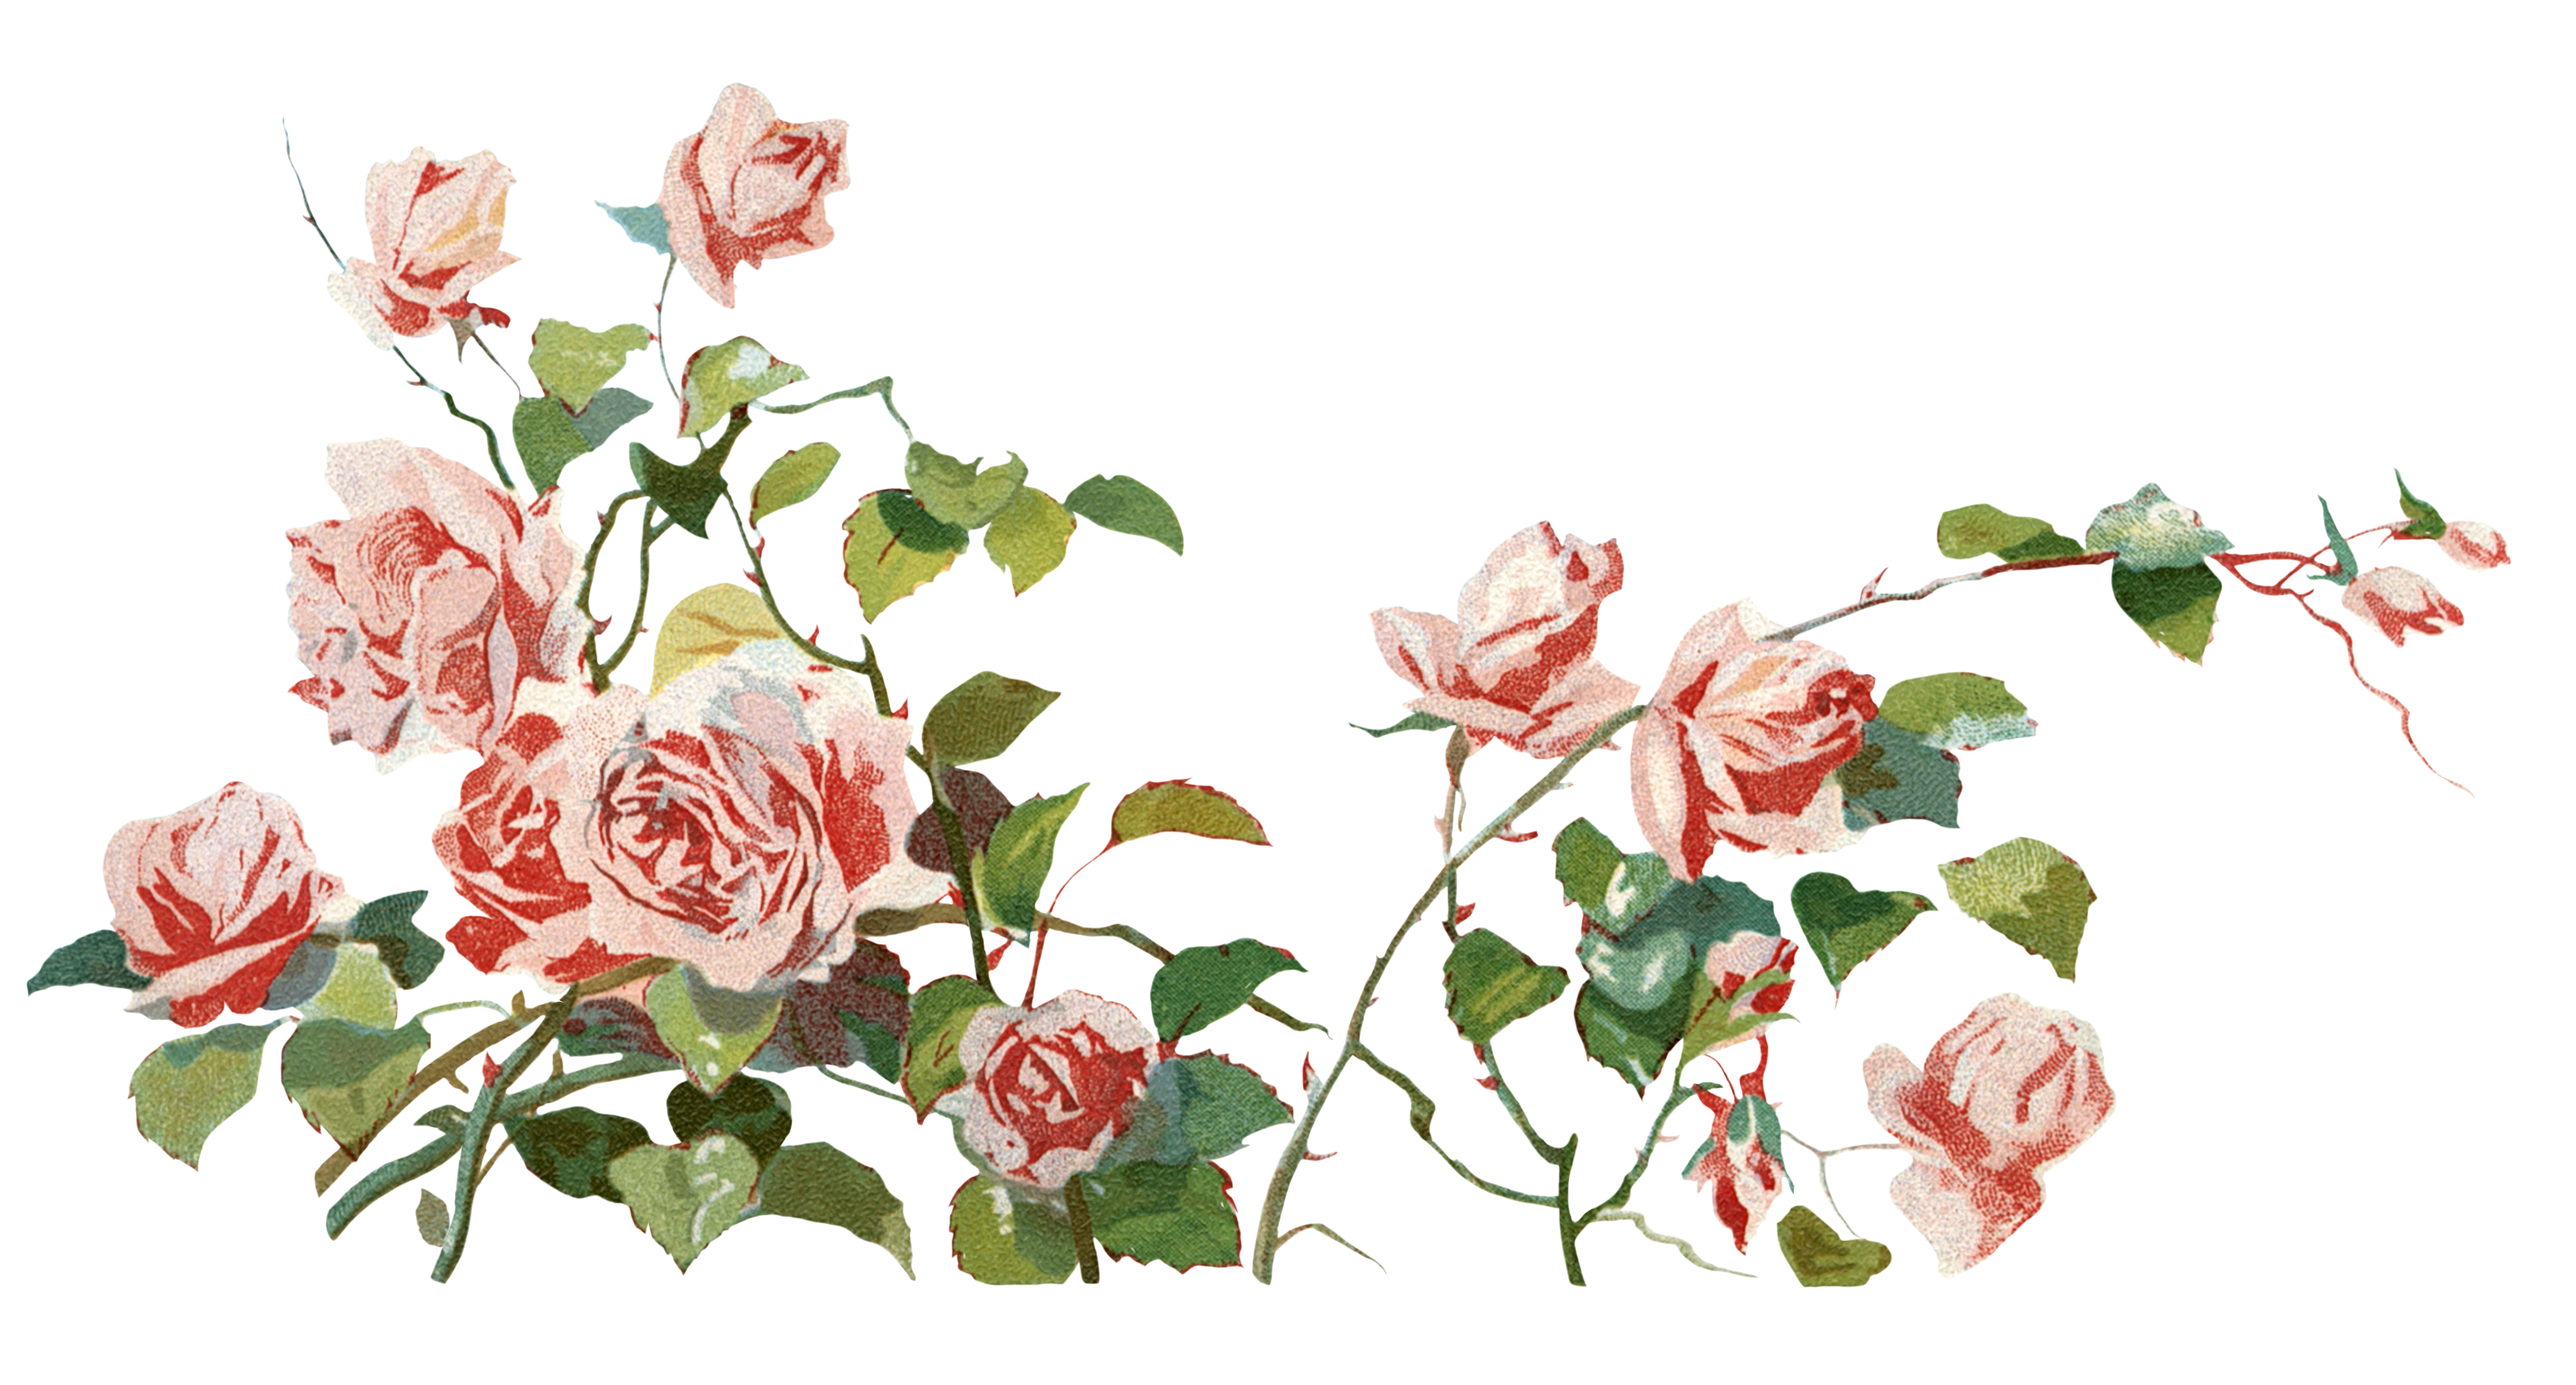
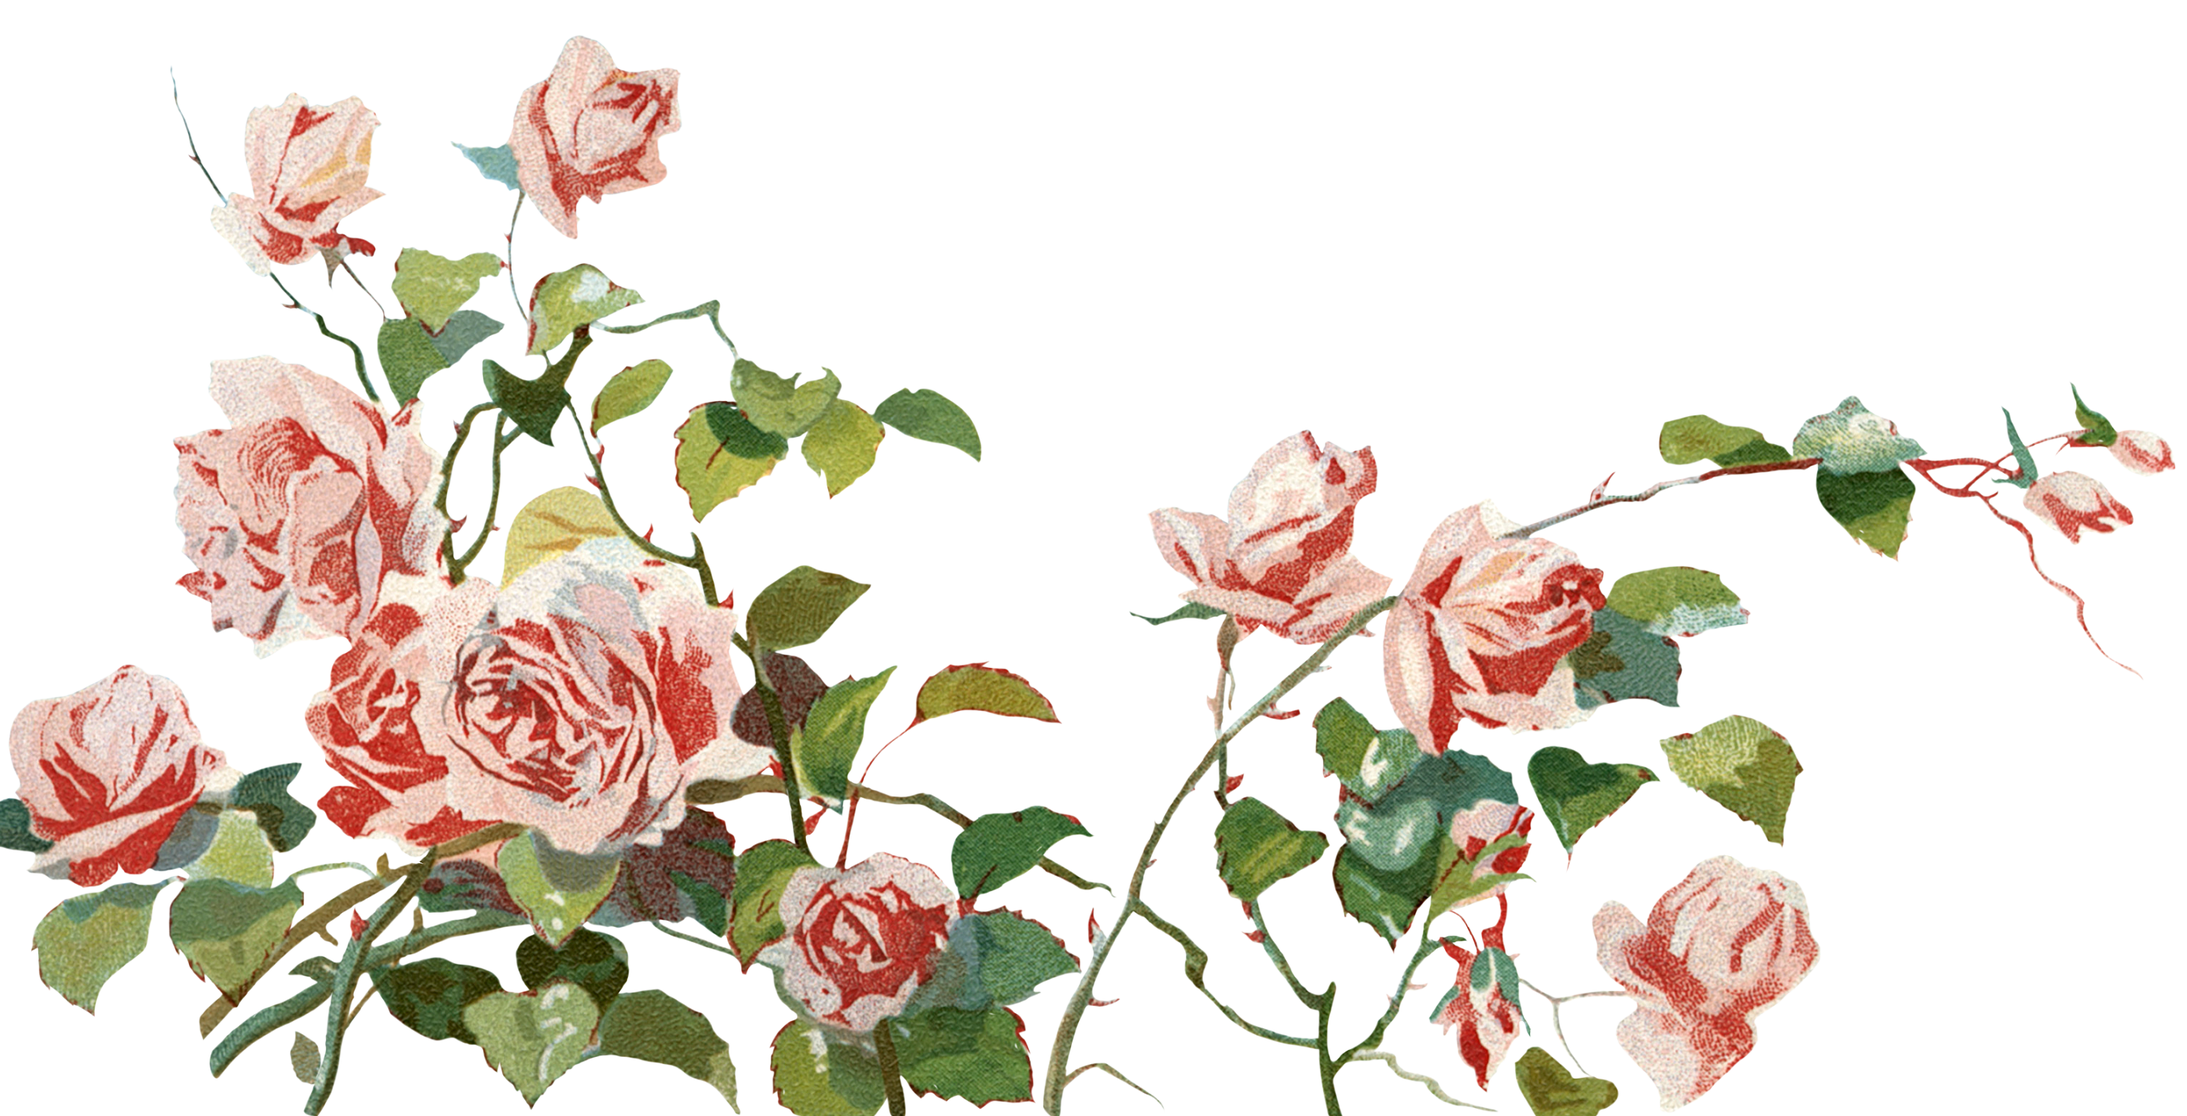
fix

diff --git a/index.html b/index.html
@@ -8,7 +8,7 @@
   </head>
   <body>
     <div class="wrapper">
-      <header class="header">
+      <!-- <header class="header">
         <nav class="nav-bar">
           <ul class="menu">
             <li class="menu__el"><a href="#section__main">Главное</a></li>
@@ -16,23 +16,26 @@
             <li class="menu__el"><a href="#program">Время</a></li>
           </ul>
         </nav>
-      </header>
+      </header> -->
       <main class="main">
         <div class="img1">
           <img src="img/img2.png" alt="" />
         </div>
+
         <section class="section__main" id="section__main">
           <div class="logo">
-            <div class="logo__years animated-element ">
+            <div class="logo__years animated-element">
               <h2 class="years fade-in">50</h2>
               <h2 class="years y__txt fade-in">ЖАС</h2>
               <img src="img/logo.png" alt="" class="img__logo fade-in" />
             </div>
           </div>
         </section>
+
         <div class="img__right">
           <img src="img/img2.png" alt="" />
         </div>
+
         <section class="section__second" id="section__second">
           <h1 class="title">
             Құрметті ағайын-туыс, бауырлар, құда-жекжат, дос-жаран, әріптестер,
@@ -44,9 +47,8 @@
             большим удовольствием приглашаем вас на дерь рождение!
           </p>
         </section>
-        <div class="img1">
-          <img src="img/img2.png" alt="" />
-        </div>
+       
+
         <section class="content" id="content">
           <p class="text">Ждем вас</p>
           <h2 class="title">17 декабря</h2>
@@ -88,9 +90,8 @@
             >
           </div>
         </section>
-        <div class="img__right">
-          <img src="img/img2.png" alt="" />
-        </div>
+
+        
         <section class="program" id="program">
           <h2>Программа дня</h2>
           <p>asdfasdf</p>

diff --git a/style/styles.scss b/style/styles.scss
@@ -68,13 +68,14 @@ body {
     padding: 0;
     box-sizing: border-box;
     margin: 0 auto;
+    max-width: 1440px;
 }
 
 .wrapper {
-    border: 1px solid black;
     position: relative;
     max-width: 100%;
     margin: 0 auto;
+
     .adress {
         margin: 0 auto;
         overflow-y: hidden;
@@ -97,9 +98,9 @@ p {
     display: flex;
     justify-content: space-between;
     align-items: center;
-
+    
     margin: 0;
-    padding: 0;
+    padding: 0; 
 
     li {
         list-style-type: none;
@@ -121,6 +122,7 @@ p {
 .main {
     text-align: center;
     margin-top: 80px;
+    
     section {
         margin: 130px 0;
     }
@@ -156,6 +158,7 @@ p {
         }
     }
 }
+
 .img1 {
     img {
         position: absolute;
@@ -167,19 +170,32 @@ p {
         overflow: hidden;
     }
 }
-.img__right {
+.img1 {
     img {
-        position: absolute;
+        position: fixed;
         width: 500px;
-        transform: rotate(-0.25turn);
+        transform: rotate(0.25turn);
+        left: -150px;
+        top: 0;
+        opacity: 0.2;
         z-index: -1;
-        opacity: 0.4;
-        right: -115px;
-        overflow-y: hidden;
-        float: right;
+        overflow: hidden;
     }
 }
 
+.img__right{
+    position: relative;
+    overflow: hidden;
+    img {
+        position: fixed;
+        width: 600px;
+        transform: rotate(-0.25turn);
+        right: -150px;
+        bottom: -200px;
+        opacity: 0.2;
+        z-index: -1;
+    }
+}
 @media screen and (max-width: 390px) {
     .wrapper {
         width: 100%;

diff --git a/style/style.css b/style/style.css
@@ -58,10 +58,10 @@ body {
   padding: 0;
   box-sizing: border-box;
   margin: 0 auto;
+  max-width: 1440px;
 }
 
 .wrapper {
-  border: 1px solid black;
   position: relative;
   max-width: 100%;
   margin: 0 auto;
@@ -154,15 +154,29 @@ p {
   overflow: hidden;
 }
 
-.img__right img {
-  position: absolute;
+.img1 img {
+  position: fixed;
   width: 500px;
-  transform: rotate(-0.25turn);
+  transform: rotate(0.25turn);
+  left: -150px;
+  top: 0;
+  opacity: 0.2;
   z-index: -1;
-  opacity: 0.4;
-  right: -115px;
-  overflow-y: hidden;
-  float: right;
+  overflow: hidden;
+}
+
+.img__right {
+  position: relative;
+  overflow: hidden;
+}
+.img__right img {
+  position: fixed;
+  width: 600px;
+  transform: rotate(-0.25turn);
+  right: -150px;
+  bottom: -200px;
+  opacity: 0.2;
+  z-index: -1;
 }
 
 @media screen and (max-width: 390px) {
